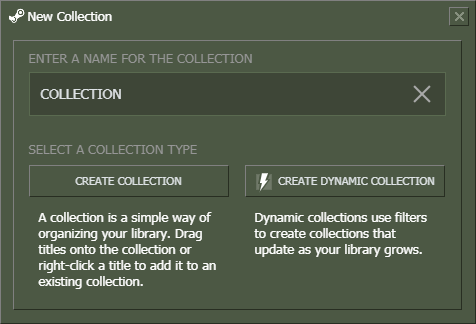
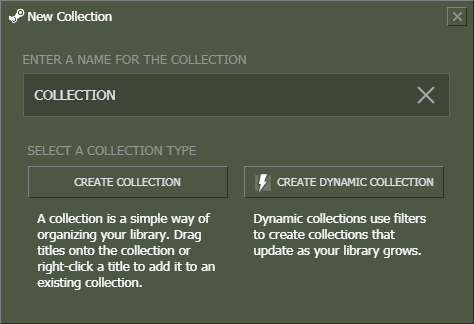
Minor tweaks

diff --git a/Copy contents to steamui folder/libraryroot.custom.css b/Copy contents to steamui folder/libraryroot.custom.css
@@ -2928,15 +2928,18 @@ button.appdetailsheader_ExitEditModeButton_i7jBC.appdetailsheader_ExitEditModeBu
     .appproperties_AppProperties_1FyBL .appproperties_Page_1SvWY .appproperties_DlcGrid_3sXdO .appproperties_DlcHeader_1SKB0 {
       position: sticky;
       top: 0;
-      background: #3e4637;
+      background: #4c5844;
+	  border-style: solid;
+	  border-width: 1px;
+	  border-color: #808080 #282e22 #282e22 #808080;
       z-index: 1;
-      padding: 8px;
+      padding: 2px;
       display: flex;
       flex-direction: row;
       align-items: center;
       cursor: pointer; }
       .appproperties_AppProperties_1FyBL .appproperties_Page_1SvWY .appproperties_DlcGrid_3sXdO .appproperties_DlcHeader_1SKB0:hover {
-        background: none; }
+        background: #4c5844; }
       .appproperties_AppProperties_1FyBL .appproperties_Page_1SvWY .appproperties_DlcGrid_3sXdO .appproperties_DlcHeader_1SKB0 .appproperties_TriangleHide_1A_JF {
         margin-left: 4px;
         width: 8px; }
@@ -22511,8 +22514,7 @@ button.DialogButton::-moz-focus-inner {
   height: initial;
   width: initial;
   max-width: 88vw;
-  max-height: 90vh;
-  min-height: 300px; }
+  max-height: 90vh; }
 
 @media screen and (max-height: 640px) {
   .FullModalOverlay .ModalPosition_Content {
@@ -22540,9 +22542,11 @@ button.DialogButton::-moz-focus-inner {
 
 .DialogBody {
   /*border: 2px dotted #f005;*/
+/*
   border-style: solid;
   border-width: 1px;
   border-color: #808080 #282e22 #282e22 #808080;
+*/
   margin: 6px 6px 6px 4px;
   display: flex;
   flex-direction: column;
@@ -22788,7 +22792,7 @@ button.DialogButton::-moz-focus-inner {
   font-size: 12px;
   line-height: 19px;
   font-weight: 100;
-  margin: 8px 15px 20px 15px;
+  margin: 10px;
   user-select: none; }
 
 .DialogBodyText p {
@@ -23265,7 +23269,8 @@ button.TextButton:focus {
 ._DialogColLayout {
   display: flex;
   flex-flow: row wrap;
-  justify-content: flex-end; }
+  justify-content: flex-end;
+  margin-bottom: 0px; }
 
 ._DialogColLayout > ._DialogLayout {
   flex: 1;
@@ -23665,7 +23670,7 @@ body.in_global_drag .title-area {
 .title-area-icon {
   width: 20px;
   height: 19px;
-  margin-top: 8px;
+  margin-top: 7px;
   margin-right: 5px;
   cursor: pointer;
   background-image: url(images/Window-Close.png);
@@ -23781,7 +23786,8 @@ body.in_global_drag .title-area {
 .GenericConfirmDialog .DialogButton {
   background: #4c5844 !important;
   min-width: 60px;
-  margin-left: 8px; }
+  margin-left: 8px;
+  margin-right: 0px;  }
 
 .GenericConfirmDialog .DialogButton:hover {
   background: #4c5844;
